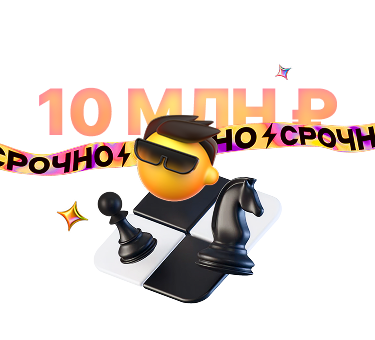
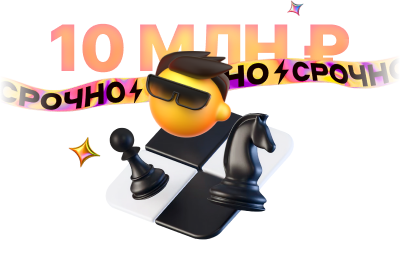
fix

diff --git a/src/App.tsx b/src/App.tsx
@@ -42,14 +42,8 @@ export const App = () => {
               с призовым фондом
             </Typography.Text>
           </div>
-          <img
-            src={hbImg}
-            alt="HB"
-            width="100%"
-            height={260}
-            style={{ objectFit: 'cover', transform: 'scale(1.1)', margin: '-1rem 0 1rem' }}
-          />
-          <Typography.Text view="primary-small" color="secondary">
+          <img src={hbImg} alt="HB" width="100%" height={260} style={{ objectFit: 'contain' }} />
+          <Typography.Text view="primary-small" color="secondary" style={{ maxWidth: '335px' }}>
             Участвуйте в онлайн турнире с оффлайн финалом в Москве
           </Typography.Text>
         </div>

diff --git a/src/style.css.ts b/src/style.css.ts
@@ -16,13 +16,14 @@ const container = style({
 
 const boxHero = style({
   display: 'flex',
-  padding: '1rem 20px 20px',
+  padding: '1rem 0 20px',
   flexDirection: 'column',
   gap: '1rem',
   borderRadius: '0 0 2rem 2rem',
   backgroundColor: '#FFFFFF',
   textAlign: 'center',
   overflow: 'hidden',
+  alignItems: 'center',
 });
 
 const row = style({